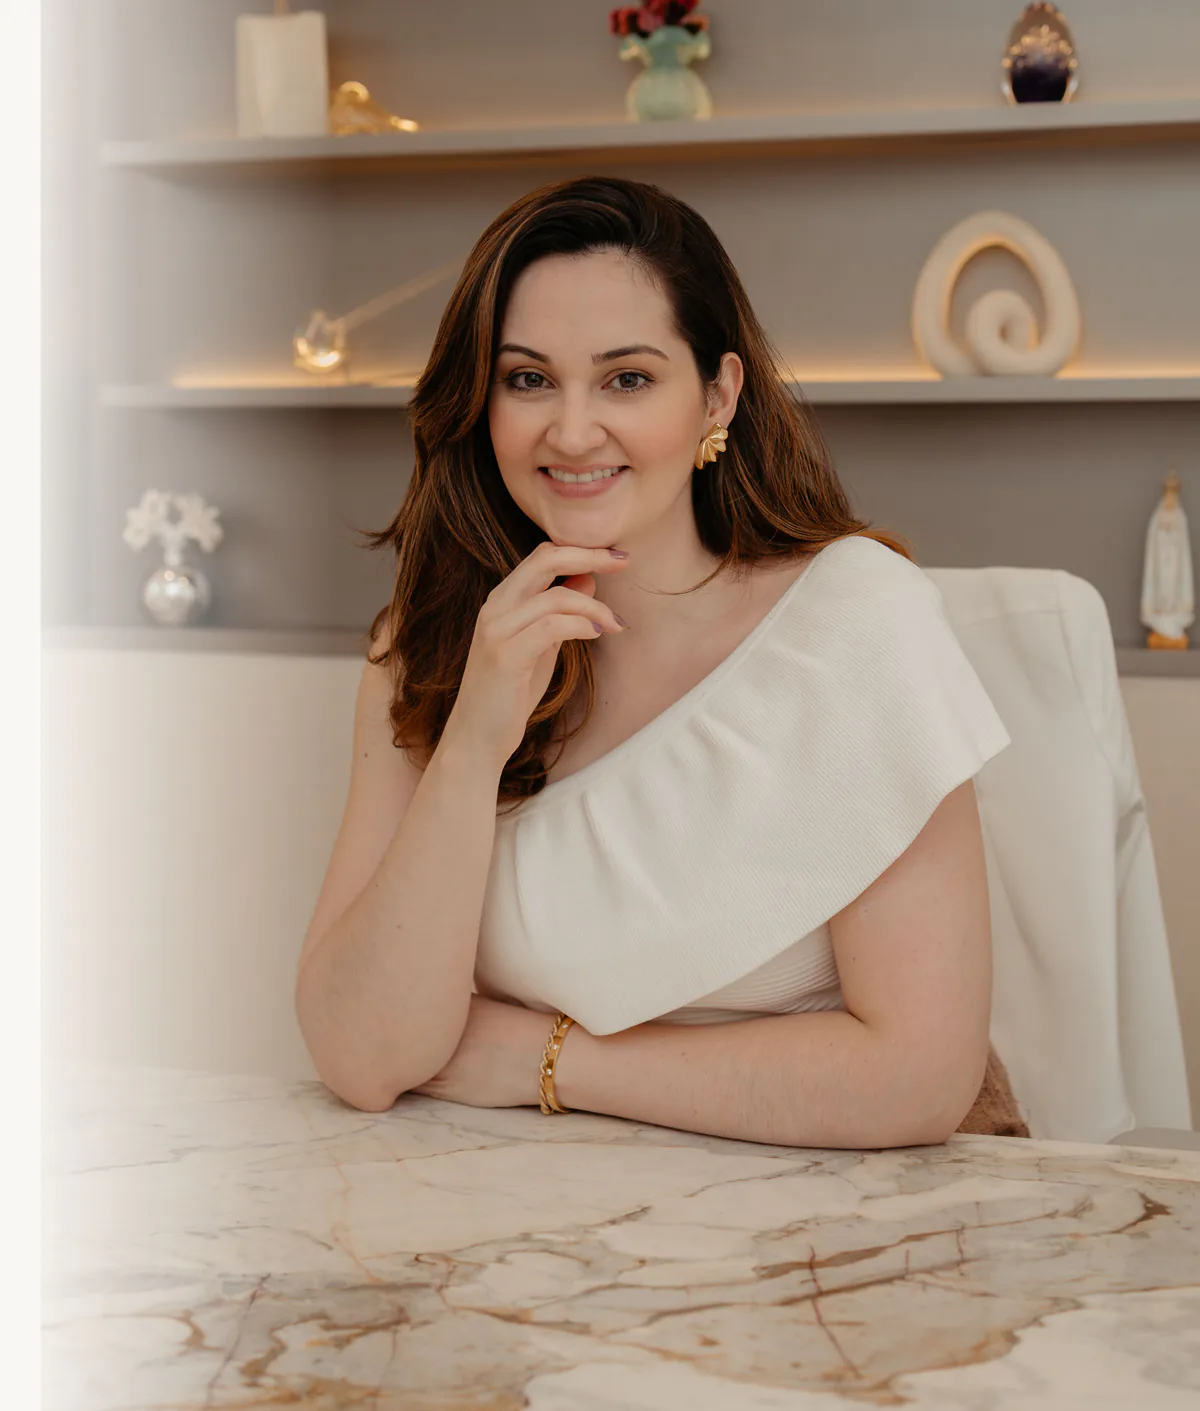
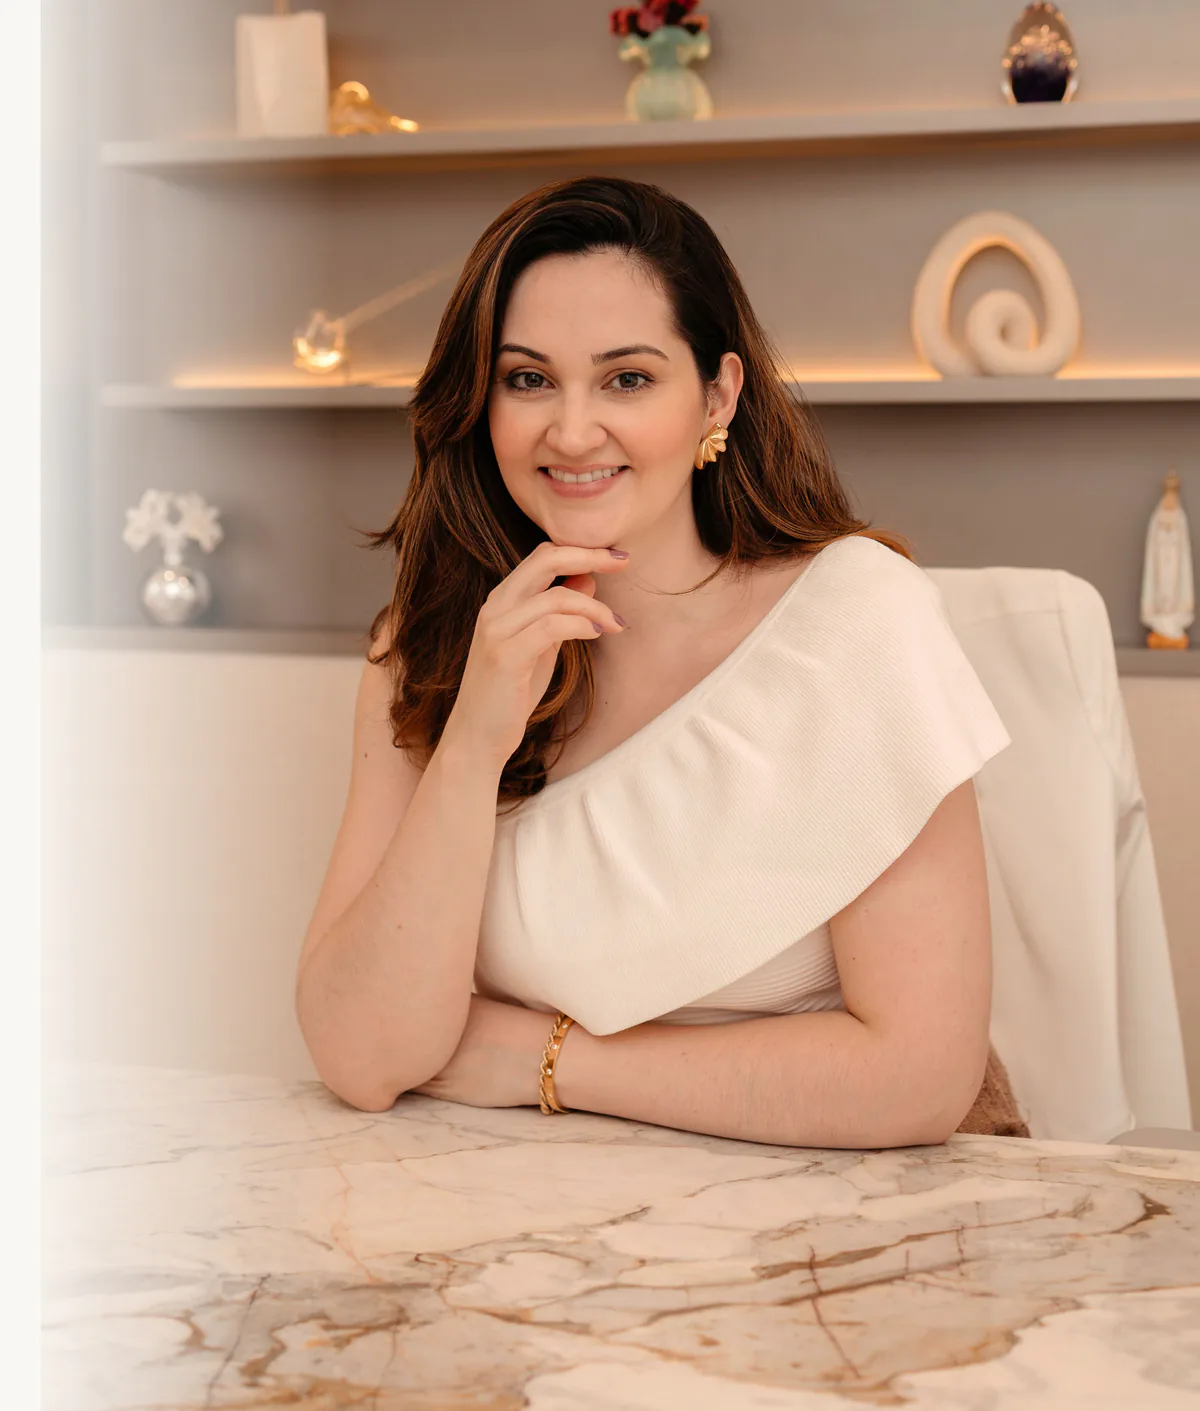
Hero photo: light treatment without lifting blacks (no haze), warmer tone and local contrast so the face stands out; thinner left fade; generator in tools/hero-foto.cjs

diff --git a/src/components/Hero.jsx b/src/components/Hero.jsx
@@ -136,9 +136,9 @@ const Hero = ({ conteudo = PADRAO }) => {
             style={{ objectPosition: '50% 30%' }}
           />
         </picture>
-        {/* Funde a foto com o fundo só na borda: pelo topo no celular, pela esquerda no desktop. O resto da foto fica limpo. */}
+        {/* Funde a foto com o fundo só na borda: pelo topo no celular; no desktop a própria imagem já traz a fusão, e aqui fica só uma faixa fina. */}
         <div className="md:hidden absolute inset-x-0 top-0 h-24 bg-gradient-to-b from-brand-cream to-transparent" />
-        <div className="hidden md:block absolute inset-y-0 -left-px w-2/5 bg-gradient-to-r from-brand-cream via-brand-cream/70 to-transparent" />
+        <div className="hidden md:block absolute inset-y-0 -left-px w-[12%] bg-gradient-to-r from-brand-cream to-transparent" />
       </div>
     </section>
   );
